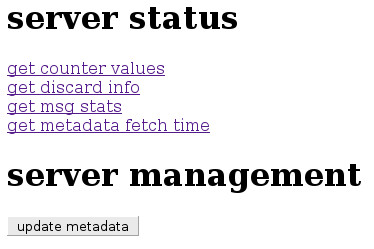
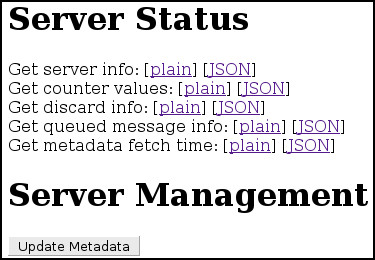
progress on documentation
modified:   doc/status_monitoring.md
	modified:   doc/web_interface.jpg

Changed region(s): [[0.0, 0.0, 1.0, 1.0]]

diff --git a/doc/status_monitoring.md b/doc/status_monitoring.md
@@ -8,11 +8,21 @@ will show the following when directed at `http://example:9090`:
 
 ![Bruce management interface](https://github.com/tagged/bruce/blob/master/doc/web_interface.jpg?raw=true)
 
+As shown above, for each status option you can choose either plain or JSON
+output.  JSON output is intended for comsumption by monitoring tools, allowing
+them to parse the output using off-the-shelf JSON libraries.  Although human
+beings can read this output, the plain option is more visually compact and
+oriented toward human viewers.  For example Nagios monitoring scripts that
+report problems indicated by the JSON counter and discard output, see
+`src/bruce/scripts/bruce_counters.py` and
+`src/bruce/scripts/bruce_discards.py`.  The discards script also contains
+example code for writing discard reports to an Oracle database, providing a
+queryable history of data quality information.
+
 ### Counter Reporting
 
-If you click on `get counter values` (i.e. send an HTTP GET to
-`http://example:9090/sys/counters`), you will get a page that looks something
-like this:
+If you choose the plain option for *Get counter values*, you will get output
+that looks something like this:
 
 ```
 now=1408656417 Thu Aug 21 14:26:57 2014
@@ -42,9 +52,8 @@ counter report was created (1408656417 seconds since the epoch), the time when
 Bruce started running (1408585285 seconds since the epoch), Bruce's process ID
 which is 14246, and Bruce's version which is `1.0.6.70.ga324763`.  The counter
 values track various events inside Bruce, and can be used for health monitoring
-and troubleshooting.  For example, `src/bruce/scripts/bruce_counters.py` is a
-Nagios script that monitors Bruce's counters and reports problems.  Details on
-the meanings of some of the more interesting counters are provided
+and troubleshooting.  Details on the meanings of some of the more interesting
+counters are provided
 [here](https://github.com/tagged/bruce/blob/master/doc/troubleshooting.md).
 Also, you can look in Bruce's source code to see what a counter indicates.  For
 instance, near the top of `src/bruce/msg.cc` you will see the following
@@ -86,10 +95,9 @@ TMsg::~TMsg() noexcept {
 When certain problems occur, which are detailed
 [here](https://github.com/tagged/bruce/blob/master/doc/design.md), Bruce will
 discard messages.  When discards occur, they are tracked and reported through
-Bruce's discard reporting web interface.  If you click on `get discard info`
-in Bruce's web interface shown near the top of this page (i.e. send an HTTP GET
-to `http://example:9090/sys/discards`), you will get a discard report that
-looks something like this:
+Bruce's discard reporting web interface.  If you choose the plain option for
+*Get discard info* in Bruce's web interface shown near the top of this page,
+you will get output that looks something like this:
 
 ```
 pid: 5843
@@ -154,15 +162,12 @@ milliseconds, since the epoch).  The version of Bruce that produced the report
 is `1.0.6.70.ga324763`.  The default discard report interval, as shown above,
 is 600 seconds, and is configurable, as documented
 [here](https://github.com/tagged/bruce/blob/master/doc/detailed_config.md).
-An example Nagios script `src/bruce/scripts/bruce_discards.py` requests discard
-reports from Bruce, analyzes and stores them in an Oracle database, and reports
-problems.
 
 ### Queued Message Information
 
-If you click on `get msg stats` in Bruce's web interface shown near the top of
-this page (i.e. send an HTTP GET to `http://example:9090/sys/msg_stats`), you
-will get queued message information that looks something like this:
+If you choose the plain option for *Get queued message info* in Bruce's web
+interface shown near the top of this page, you will get output that looks
+something like this:
 
 ```
 pid: 18592
@@ -190,10 +195,9 @@ has not yet started processing.
 
 ### Metadata Fetch Time
 
-If you click on `get metadata fetch time` in Bruce's web interface shown near
-the top of this page (i.e. send an HTTP GET to
-`http://example:9090/sys/metadata_fetch_time`), you will get metadata fetch
-time information that looks something like this:
+If you choose the plain option for *Get metadata fetch time* in Bruce's web
+interface shown near the top of this page, you will get output that looks
+something like this:
 
 ```
 pid: 18592
@@ -221,16 +225,11 @@ ask for new metadata at the same time.  Configuration of the interval length is
 documented
 [here](https://github.com/tagged/bruce/blob/master/doc/detailed_config.md).
 Additionally, you can manually cause Bruce to update its metadata.  Clicking
-on the `update metadata` button in Bruce's web interface shown near the top of
+on the *Update metadata* button in Bruce's web interface shown near the top of
 this page (i.e. sending an HTTP POST to
 `http://example:9090/sys/metadata_update`) causes Bruce to update its metadata.
 Certain error conditions can also cause Bruce to update its metadata, as
 described [here](https://github.com/tagged/bruce/blob/master/doc/design.md).
-
-### Future work
-
-At some point, it would be nice to replace the output format of Bruce's web
-interface with JSON, so output can be parsed with off-the-shelf JSON libraries.
 
 At this point it is helpful to have some information on
 [Bruce's design](https://github.com/tagged/bruce#design-overview).
